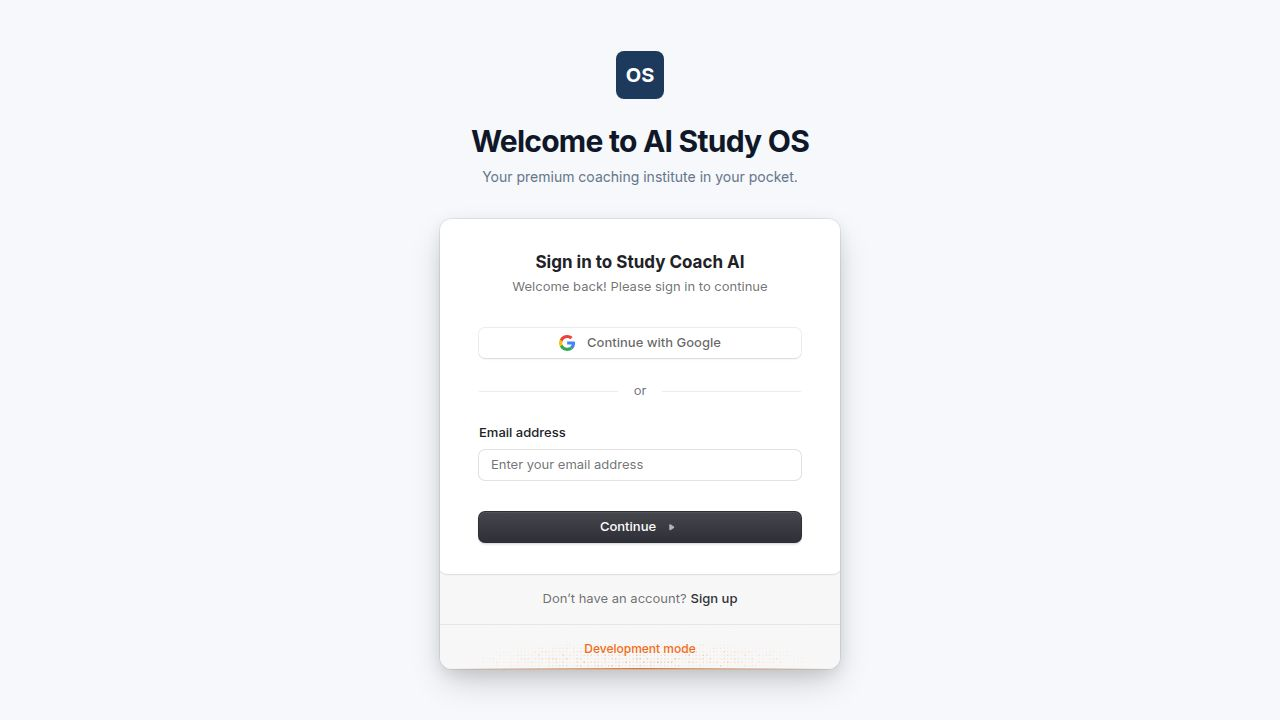
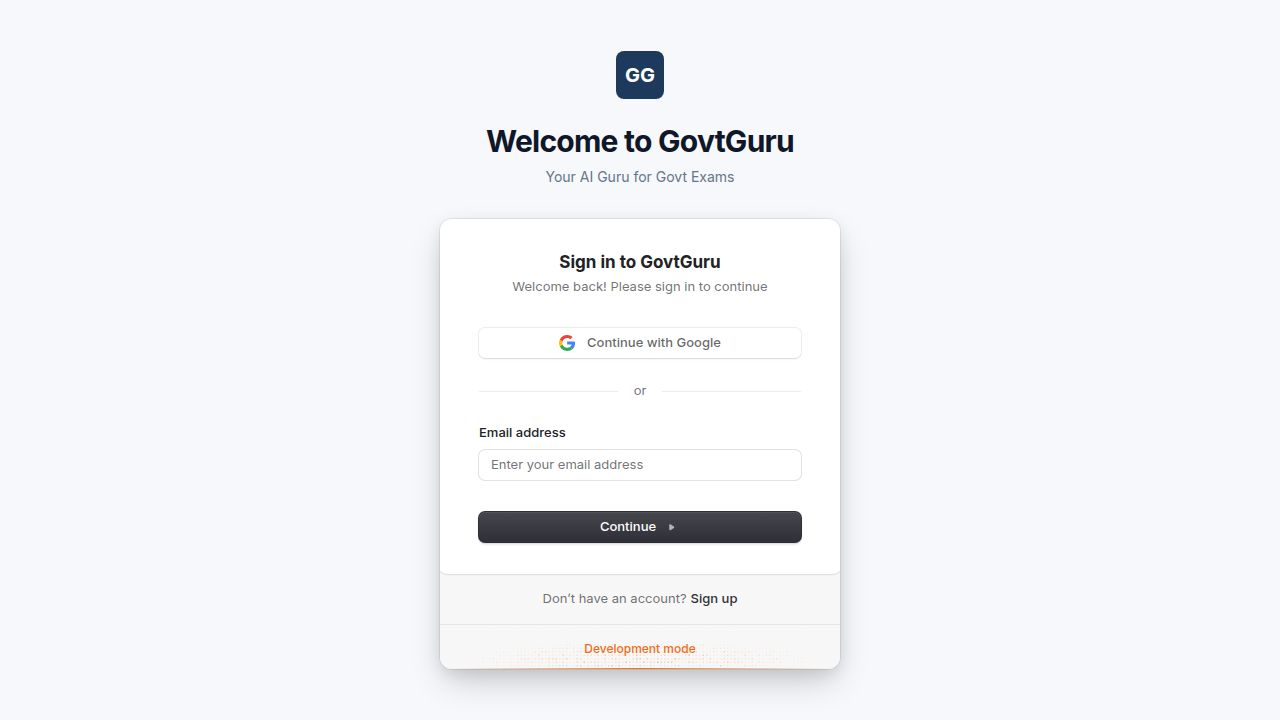
Update application branding and user-facing text to GovtGuru
Refactors application name, logos, and UI text across multiple files, and updates Clerk authentication widget localization to use "GovtGuru" branding.

Replit-Commit-Author: Agent
Replit-Commit-Session-Id: 3ab7172b-5797-4aed-ab63-8fa924902f68
Replit-Commit-Checkpoint-Type: full_checkpoint
Replit-Commit-Event-Id: f403eada-f23a-4792-98ae-208d52b667a0
Replit-Commit-Screenshot-Url: https://storage.googleapis.com/screenshot-production-us-central1/29c30fca-4b80-4155-b46d-347e2d7cafa7/3ab7172b-5797-4aed-ab63-8fa924902f68/8ciiHtT
Replit-Helium-Checkpoint-Created: true

Changed region(s): [[0.3438, 0.1833, 0.6562, 0.275], [0.4062, 0.3361, 0.5938, 0.3972], [0.4688, 0.0917, 0.5312, 0.1222]]

diff --git a/artifacts/study-os/src/App.tsx b/artifacts/study-os/src/App.tsx
@@ -156,10 +156,10 @@ function LoginPage() {
       <div className="w-full max-w-md space-y-8">
         <div className="text-center">
           <div className="mx-auto h-12 w-12 rounded-lg bg-primary flex items-center justify-center">
-            <span className="text-primary-foreground font-bold text-xl">OS</span>
+            <span className="text-primary-foreground font-bold text-xl">GG</span>
           </div>
-          <h2 className="mt-6 text-3xl font-bold tracking-tight text-foreground">Welcome to AI Study OS</h2>
-          <p className="mt-2 text-sm text-muted-foreground">Your premium coaching institute in your pocket.</p>
+          <h2 className="mt-6 text-3xl font-bold tracking-tight text-foreground">Welcome to GovtGuru</h2>
+          <p className="mt-2 text-sm text-muted-foreground">Your AI Guru for Govt Exams</p>
         </div>
         <div className="mt-8 flex justify-center">
           <SignIn routing="path" path="/login" signUpUrl="/signup" />
@@ -175,7 +175,7 @@ function SignUpPage() {
       <div className="w-full max-w-md space-y-8">
         <div className="text-center">
           <div className="mx-auto h-12 w-12 rounded-lg bg-primary flex items-center justify-center">
-            <span className="text-primary-foreground font-bold text-xl">OS</span>
+            <span className="text-primary-foreground font-bold text-xl">GG</span>
           </div>
           <h2 className="mt-6 text-3xl font-bold tracking-tight text-foreground">Start Your Journey</h2>
           <p className="mt-2 text-sm text-muted-foreground">Create an account to build your study plan.</p>

diff --git a/artifacts/study-os/index.html b/artifacts/study-os/index.html
@@ -3,15 +3,15 @@
   <head>
     <meta charset="UTF-8" />
     <meta name="viewport" content="width=device-width, initial-scale=1.0, maximum-scale=1" />
-    <title>AI Study OS</title>
-    <meta name="description" content="AI Study OS — built on Replit. Update this description to reflect the app." />
+    <title>GovtGuru</title>
+    <meta name="description" content="GovtGuru — Your AI Guru for Govt Exams" />
     <meta name="robots" content="index, follow" />
-    <meta property="og:title" content="AI Study OS" />
-    <meta property="og:description" content="AI Study OS — built on Replit. Update this description to reflect the app." />
+    <meta property="og:title" content="GovtGuru" />
+    <meta property="og:description" content="GovtGuru — Your AI Guru for Govt Exams" />
     <meta property="og:type" content="website" />
     <meta name="twitter:card" content="summary_large_image" />
-    <meta name="twitter:title" content="AI Study OS" />
-    <meta name="twitter:description" content="AI Study OS — built on Replit. Update this description to reflect the app." />
+    <meta name="twitter:title" content="GovtGuru" />
+    <meta name="twitter:description" content="GovtGuru — Your AI Guru for Govt Exams" />
     <link rel="icon" type="image/svg+xml" href="/favicon.svg" />
     <link rel="preconnect" href="https://fonts.googleapis.com">
     <link rel="preconnect" href="https://fonts.gstatic.com" crossorigin>

diff --git a/artifacts/study-os/src/components/layout.tsx b/artifacts/study-os/src/components/layout.tsx
@@ -50,9 +50,9 @@ function SidebarContent({ location, onNav }: { location: string; onNav?: () => v
       <div className="p-6">
         <Link href="/dashboard" className="flex items-center gap-3" onClick={onNav}>
           <div className="h-8 w-8 rounded bg-primary flex items-center justify-center text-primary-foreground font-bold">
-            OS
+            GG
           </div>
-          <span className="font-bold text-lg text-foreground tracking-tight">AI Study OS</span>
+          <span className="font-bold text-lg text-foreground tracking-tight">GovtGuru</span>
         </Link>
       </div>
 
@@ -196,9 +196,9 @@ function MobileHeader({ location }: { location: string }) {
     <header className="md:hidden flex items-center justify-between p-4 border-b bg-card sticky top-0 z-20">
       <Link href="/dashboard" className="flex items-center gap-2">
         <div className="h-7 w-7 rounded bg-primary flex items-center justify-center text-primary-foreground font-bold text-sm">
-          OS
+          GG
         </div>
-        <span className="font-bold text-foreground">AI Study OS</span>
+        <span className="font-bold text-foreground">GovtGuru</span>
       </Link>
       <div className="flex items-center gap-2">
         {!plan.isPro && (

diff --git a/scripts/src/generate-questions.ts b/scripts/src/generate-questions.ts
@@ -397,7 +397,7 @@ async function main() {
   const remaining = allTasks.filter(t => !progress.completed.includes(`${t.subject}::${t.topic}`));
 
   console.log("═══════════════════════════════════════════════════════════════");
-  console.log("  AI Study OS — Bulk Question Generator");
+  console.log("  GovtGuru — Bulk Question Generator");
   console.log("═══════════════════════════════════════════════════════════════");
   console.log(`  Total topics  : ${total}`);
   console.log(`  Already done  : ${done}`);

diff --git a/artifacts/study-os/src/main.tsx b/artifacts/study-os/src/main.tsx
@@ -12,7 +12,24 @@ if (!clerkPubKey) {
 
 createRoot(document.getElementById("root")!).render(
   <StrictMode>
-    <ClerkProvider publishableKey={clerkPubKey} afterSignOutUrl="/">
+    <ClerkProvider
+      publishableKey={clerkPubKey}
+      afterSignOutUrl="/"
+      localization={{
+        signIn: {
+          start: {
+            title: "Sign in to GovtGuru",
+            subtitle: "Welcome back! Please sign in to continue",
+          },
+        },
+        signUp: {
+          start: {
+            title: "Create your GovtGuru account",
+            subtitle: "Start your exam prep journey today",
+          },
+        },
+      }}
+    >
       <App />
     </ClerkProvider>
   </StrictMode>

diff --git a/artifacts/study-os/src/pages/onboarding.tsx b/artifacts/study-os/src/pages/onboarding.tsx
@@ -69,9 +69,9 @@ export default function OnboardingPage() {
         {/* Logo */}
         <div className="flex items-center justify-center gap-2 mb-10">
           <div className="h-9 w-9 rounded-lg bg-primary flex items-center justify-center shrink-0">
-            <span className="text-primary-foreground font-bold text-sm">OS</span>
+            <span className="text-primary-foreground font-bold text-sm">GG</span>
           </div>
-          <span className="font-bold text-lg">AI Study OS</span>
+          <span className="font-bold text-lg">GovtGuru</span>
         </div>
 
         {/* Progress bar */}

diff --git a/artifacts/study-os/src/pages/upgrade.tsx b/artifacts/study-os/src/pages/upgrade.tsx
@@ -98,7 +98,7 @@ export default function UpgradePage() {
         </Badge>
         <h1 className="text-4xl font-bold tracking-tight">Supercharge Your Exam Prep</h1>
         <p className="text-muted-foreground text-lg max-w-2xl mx-auto">
-          Join serious aspirants who use AI Study OS to crack SSC, Banking, and Railway exams faster.
+          Join serious aspirants who use GovtGuru to crack SSC, Banking, and Railway exams faster.
         </p>
         <div className="flex flex-wrap items-center justify-center gap-6 pt-2">
           {TRUST.map(({ icon: Icon, stat, label }) => (

diff --git a/artifacts/study-os/src/components/admin-layout.tsx b/artifacts/study-os/src/components/admin-layout.tsx
@@ -34,7 +34,7 @@ function SidebarContent({ location, onNav }: { location: string; onNav?: () => v
           </div>
           <div>
             <span className="font-bold text-lg text-foreground tracking-tight block leading-tight">Admin Panel</span>
-            <span className="text-[11px] text-muted-foreground">AI Study OS</span>
+            <span className="text-[11px] text-muted-foreground">GovtGuru</span>
           </div>
         </Link>
       </div>

diff --git a/artifacts/study-os/src/pages/admin/dashboard.tsx b/artifacts/study-os/src/pages/admin/dashboard.tsx
@@ -45,7 +45,7 @@ export default function AdminDashboardPage() {
     <div className="space-y-6">
       <div>
         <h1 className="text-3xl font-bold tracking-tight text-red-700">Admin Dashboard</h1>
-        <p className="text-muted-foreground mt-1">Overview of AI Study OS platform activity.</p>
+        <p className="text-muted-foreground mt-1">Overview of GovtGuru platform activity.</p>
       </div>
 
       {isLoading && (
